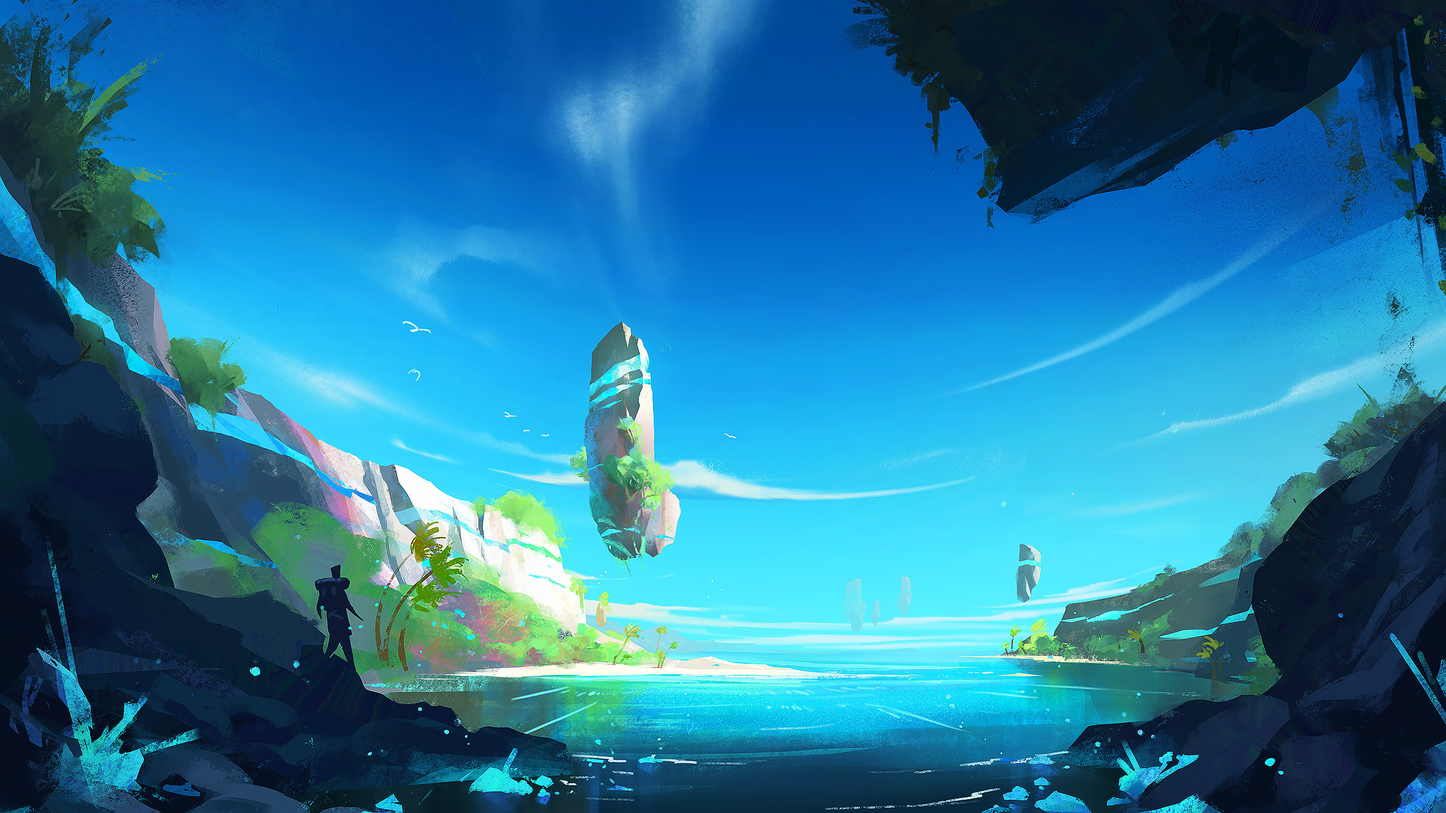
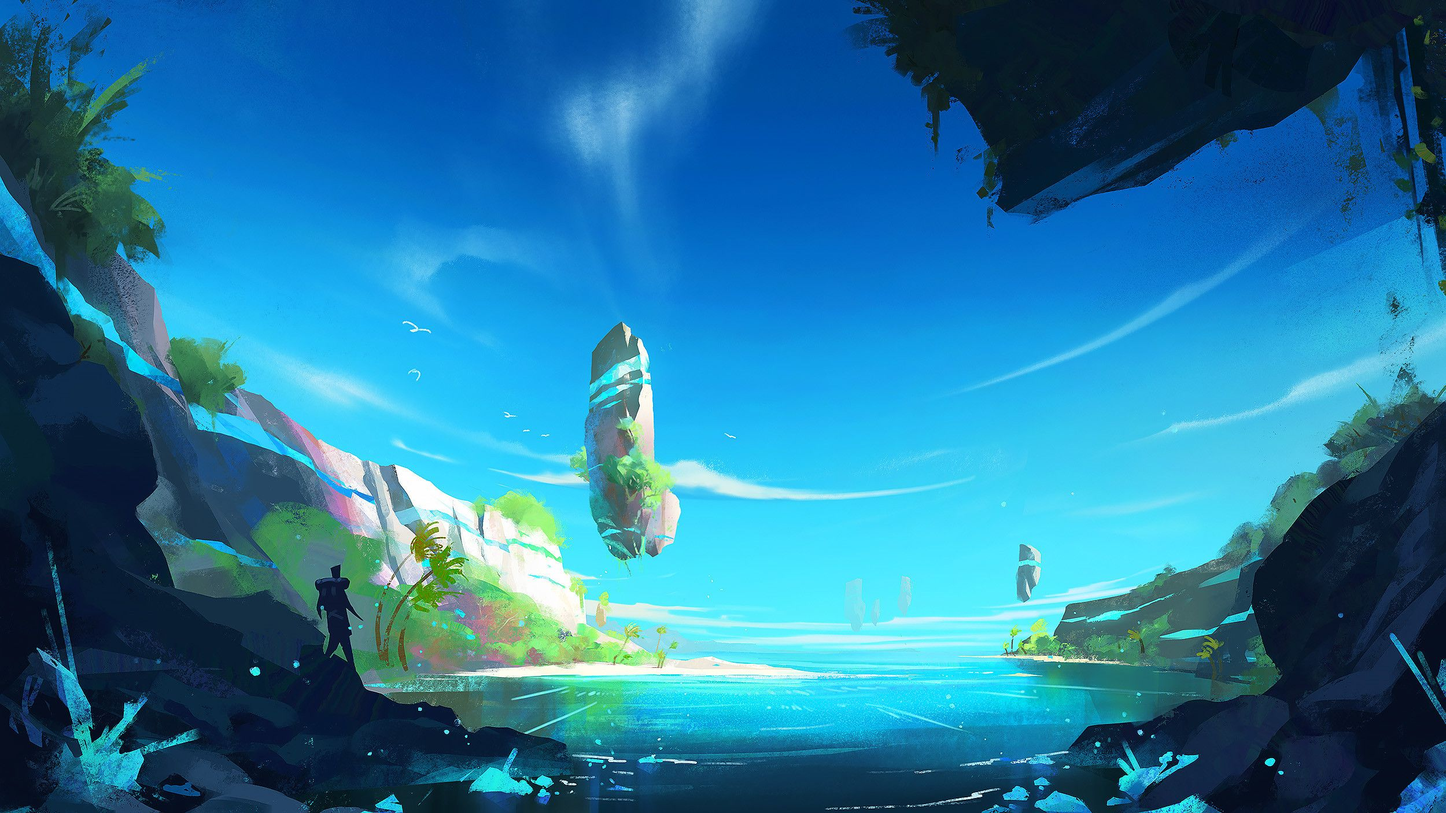
Site updated: 2020-07-09 19:32:34

diff --git a/categories/index.html b/categories/index.html
@@ -130,7 +130,7 @@
 </nav>
 
     <div class="banner intro-2" id="background" parallax=true
-         style="background: url('/image/wallhaven-j5zlqp.png') no-repeat center center;
+         style="background: url('/image/WPS%E5%9B%BE%E7%89%87-%E4%BF%AE%E6%94%B9%E5%B0%BA%E5%AF%B8.png') no-repeat center center;
            background-size: cover;">
       <div class="full-bg-img">
         <div class="mask flex-center" style="background-color: rgba(0, 0, 0, 0.3)">
